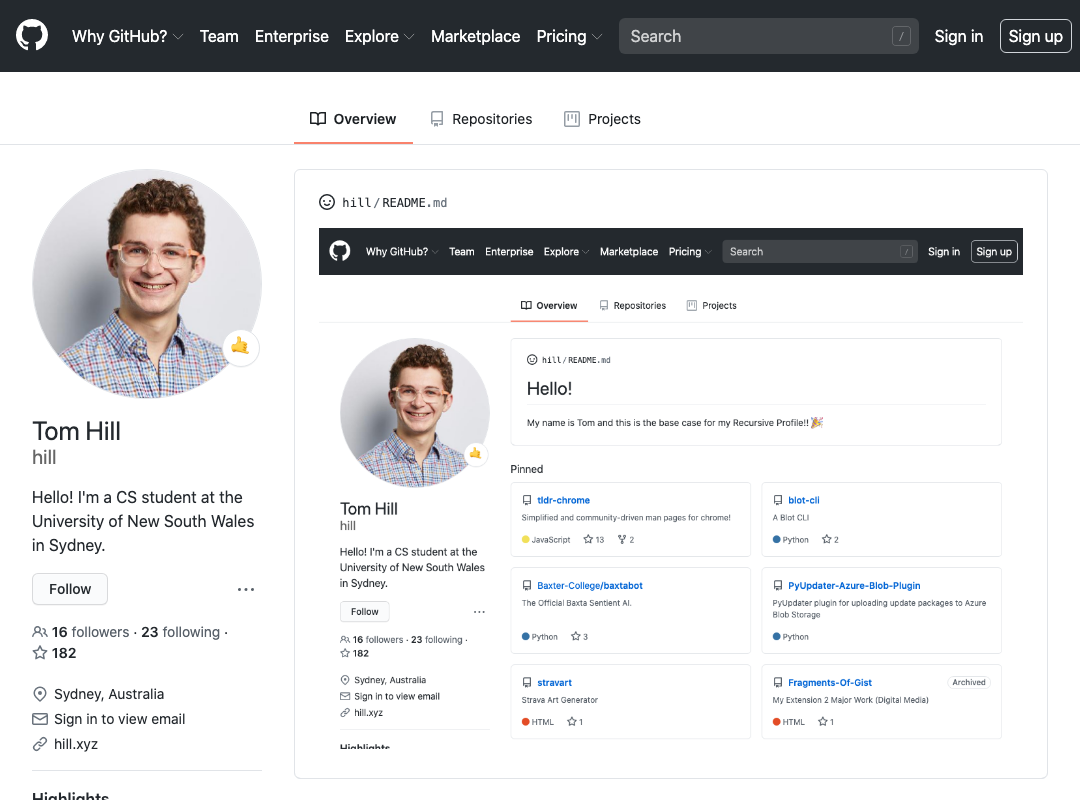
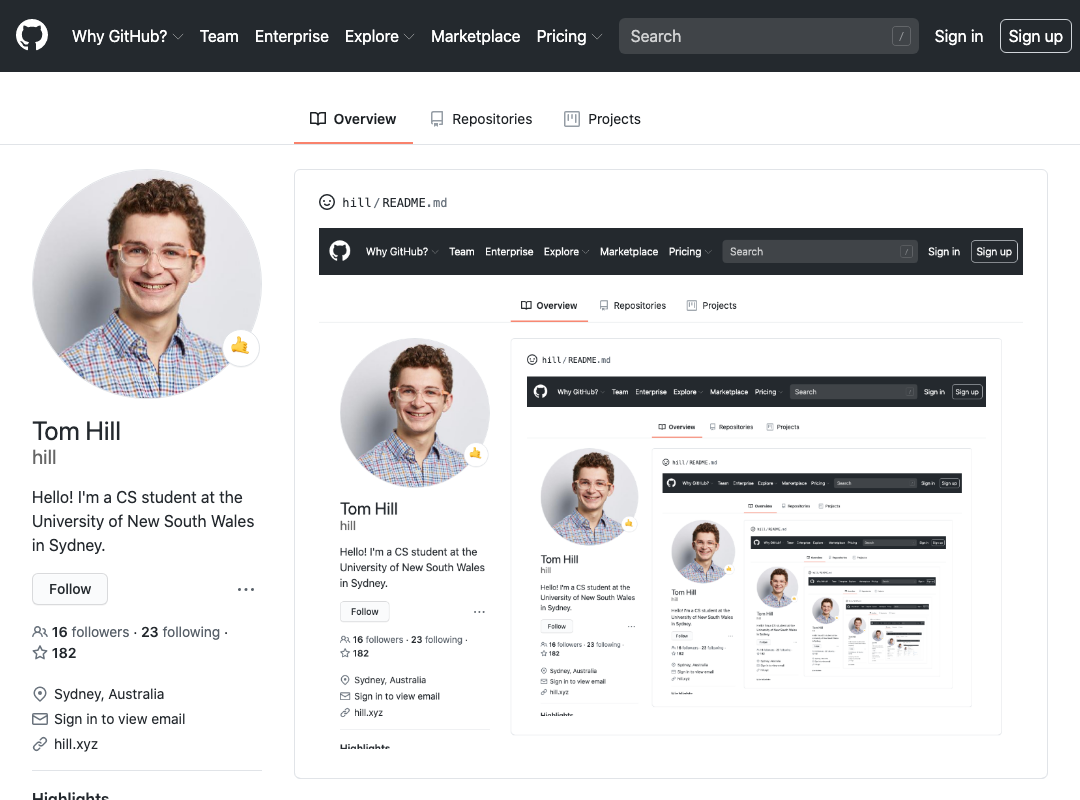
"adds new screenshot at depth 6"

Changed region(s): [[0.4889, 0.4688, 0.9167, 0.9062], [0.8861, 0.8438, 0.9167, 0.875]]

diff --git a/README.md b/README.md
@@ -1,1 +1,1 @@
-![Woah!](https://github.com/hill/hill/blob/master/screenshot-7.png)
+![Woah!](https://github.com/hill/hill/blob/master/screenshot-6.png)
